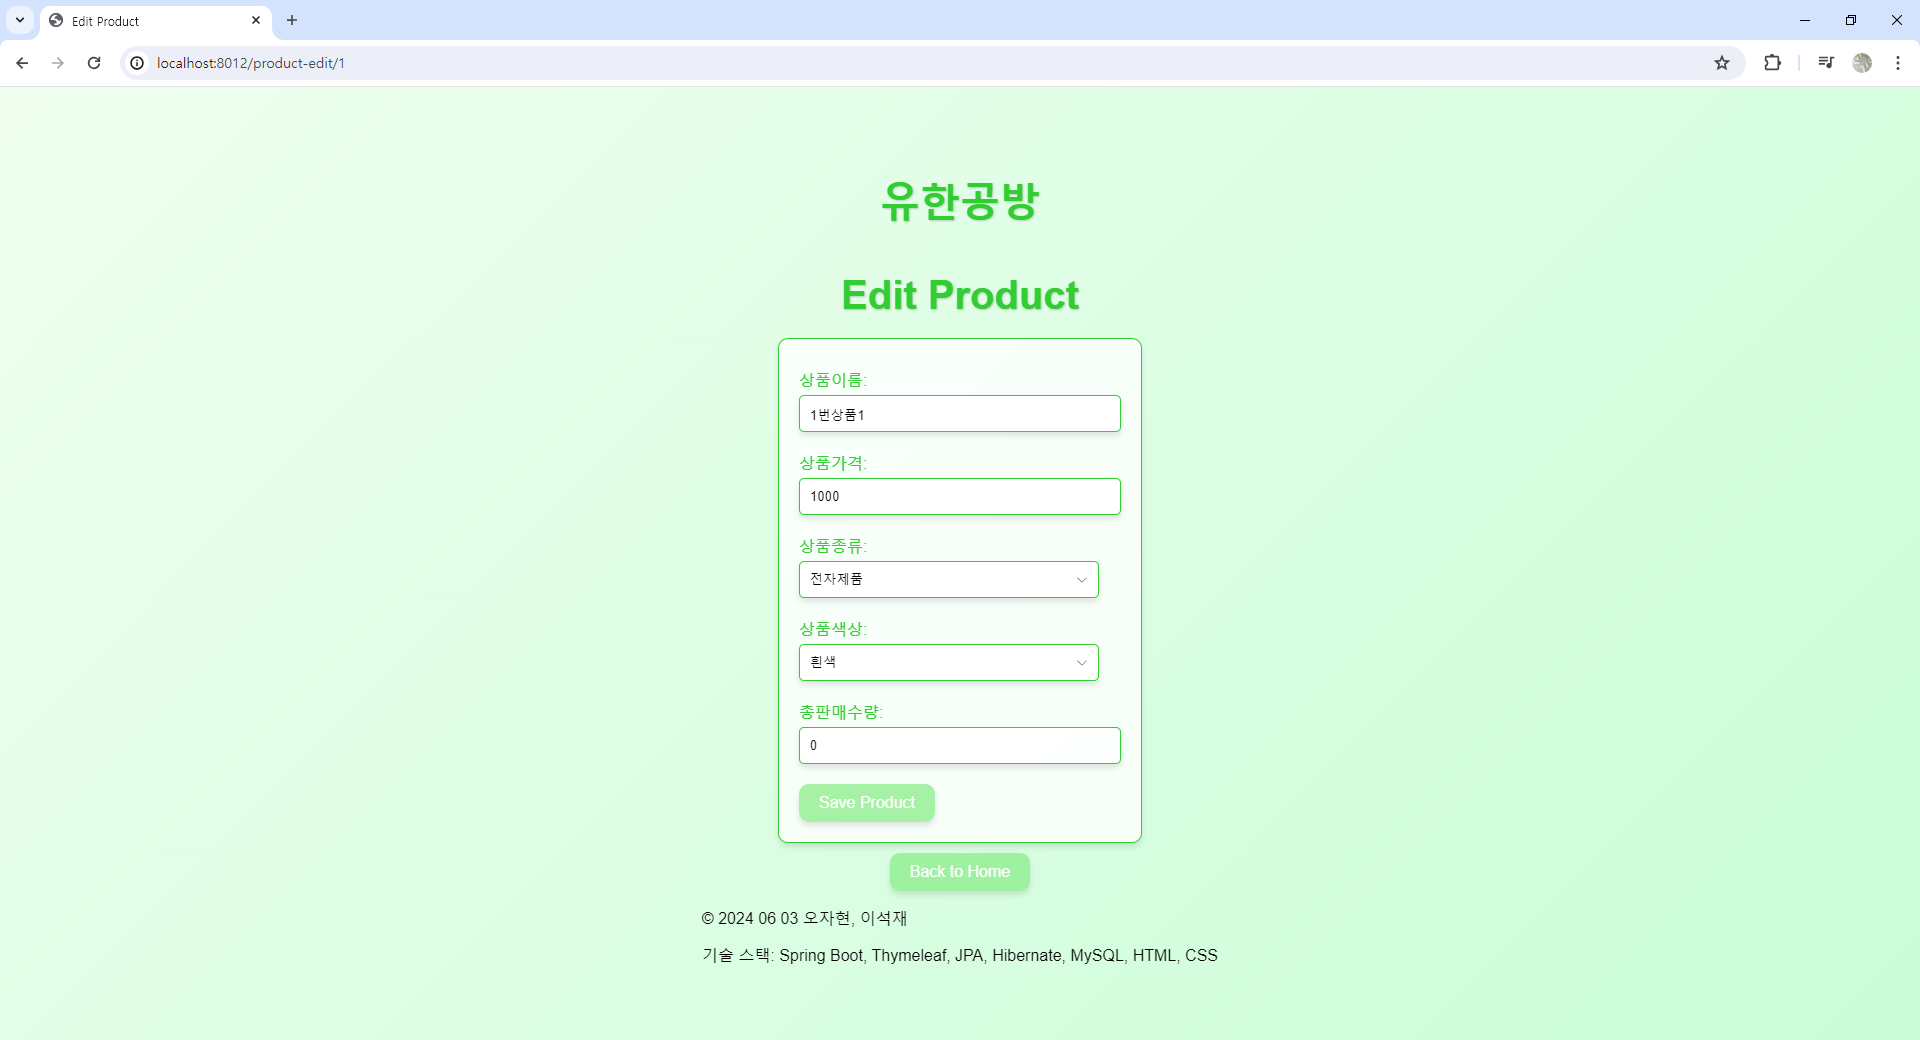
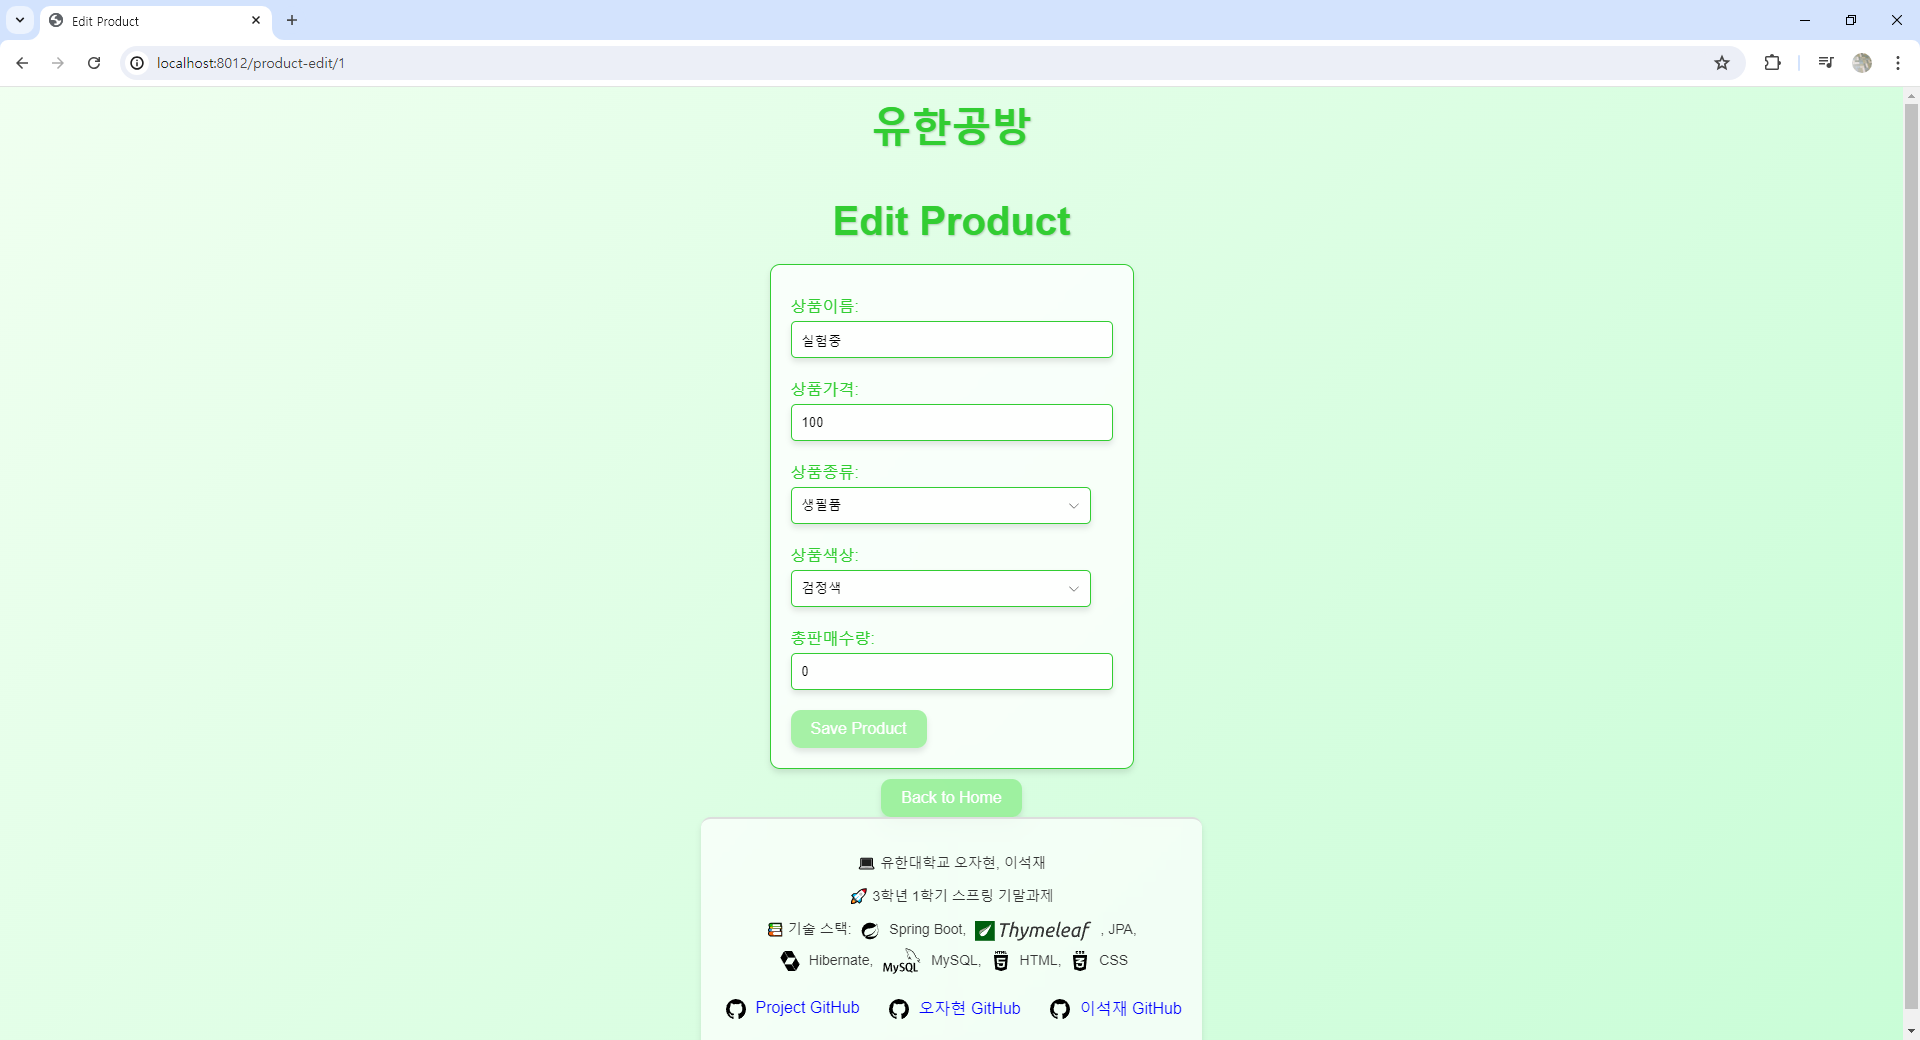
[오자현] 이미지 수정, 풋터 수정

Changed region(s): [[0.3438, 0.0923, 0.625, 1.0], [0.9688, 0.0923, 1.0, 1.0]]

diff --git a/Final_Exam/src/main/resources/templates/footer.html b/Final_Exam/src/main/resources/templates/footer.html
@@ -81,9 +81,9 @@
 				</g>
 			</svg> CSS
 		</p>
-		<br>
 		<p>
-			<a href="https://github.com/ohjaoh/Spring-Practice" target="_blank"style="text-decoration: none; color: blue;">
+			<a href="https://github.com/ohjaoh/Spring-Practice" target="_blank"
+				style="text-decoration: none; color: blue; display: inline-block; margin-right: 20px;">
 				<svg width="20px" height="20px" viewBox="0 0 20 20" version="1.1" xmlns="http://www.w3.org/2000/svg"
 					xmlns:xlink="http://www.w3.org/1999/xlink" style="vertical-align: middle; margin: 0 5px;">
 					<g id="Page-1" stroke="none" stroke-width="1" fill="none" fill-rule="evenodd">
@@ -92,16 +92,15 @@
 								<path
 									d="M94,7399 C99.523,7399 104,7403.59 104,7409.253 C104,7413.782 101.138,7417.624 97.167,7418.981 C96.66,7419.082 96.48,7418.762 96.48,7418.489 C96.48,7418.151 96.492,7417.047 96.492,7415.675 C96.492,7414.719 96.172,7414.095 95.813,7413.777 C98.04,7413.523 100.38,7412.656 100.38,7408.718 C100.38,7407.598 99.992,7406.684 99.35,7405.966 C99.454,7405.707 99.797,7404.664 99.252,7403.252 C99.252,7403.252 98.414,7402.977 96.505,7404.303 C95.706,7404.076 94.85,7403.962 94,7403.958 C93.15,7403.962 92.295,7404.076 91.497,7404.303 C89.586,7402.977 88.746,7403.252 88.746,7403.252 C88.203,7404.664 88.546,7405.707 88.649,7405.966 C88.01,7406.684 87.619,7407.598 87.619,7408.718 C87.619,7412.646 89.954,7413.526 92.175,7413.785 C91.889,7414.041 91.63,7414.493 91.54,7415.156 C90.97,7415.418 89.522,7415.871 88.63,7414.304 C88.63,7414.304 88.101,7413.319 87.097,7413.247 C87.097,7413.247 86.122,7413.234 87.029,7413.87 C87.029,7413.87 87.684,7414.185 88.139,7415.37 C88.139,7415.37 88.726,7417.2 91.508,7416.58 C91.513,7417.437 91.522,7418.245 91.522,7418.489 C91.522,7418.76 91.338,7419.077 90.839,7418.982 C86.865,7417.627 84,7413.783 84,7409.253 C84,7403.59 88.478,7399 94,7399"
 									id="github-[#142]">
-
 								</path>
 							</g>
 						</g>
 					</g>
-				</svg> Project GitHub
+				</svg>
+				Project GitHub
 			</a>
-		</p>
-		<p>
-			<a href="https://github.com/ohjaoh" target="_blank" style="text-decoration: none; color: blue;">
+			<a href="https://github.com/ohjaoh" target="_blank"
+				style="text-decoration: none; color: blue; display: inline-block; margin-right: 20px;">
 				<svg width="20px" height="20px" viewBox="0 0 20 20" version="1.1" xmlns="http://www.w3.org/2000/svg"
 					xmlns:xlink="http://www.w3.org/1999/xlink" style="vertical-align: middle; margin: 0 5px;">
 					<g id="Page-1" stroke="none" stroke-width="1" fill="none" fill-rule="evenodd">
@@ -110,16 +109,15 @@
 								<path
 									d="M94,7399 C99.523,7399 104,7403.59 104,7409.253 C104,7413.782 101.138,7417.624 97.167,7418.981 C96.66,7419.082 96.48,7418.762 96.48,7418.489 C96.48,7418.151 96.492,7417.047 96.492,7415.675 C96.492,7414.719 96.172,7414.095 95.813,7413.777 C98.04,7413.523 100.38,7412.656 100.38,7408.718 C100.38,7407.598 99.992,7406.684 99.35,7405.966 C99.454,7405.707 99.797,7404.664 99.252,7403.252 C99.252,7403.252 98.414,7402.977 96.505,7404.303 C95.706,7404.076 94.85,7403.962 94,7403.958 C93.15,7403.962 92.295,7404.076 91.497,7404.303 C89.586,7402.977 88.746,7403.252 88.746,7403.252 C88.203,7404.664 88.546,7405.707 88.649,7405.966 C88.01,7406.684 87.619,7407.598 87.619,7408.718 C87.619,7412.646 89.954,7413.526 92.175,7413.785 C91.889,7414.041 91.63,7414.493 91.54,7415.156 C90.97,7415.418 89.522,7415.871 88.63,7414.304 C88.63,7414.304 88.101,7413.319 87.097,7413.247 C87.097,7413.247 86.122,7413.234 87.029,7413.87 C87.029,7413.87 87.684,7414.185 88.139,7415.37 C88.139,7415.37 88.726,7417.2 91.508,7416.58 C91.513,7417.437 91.522,7418.245 91.522,7418.489 C91.522,7418.76 91.338,7419.077 90.839,7418.982 C86.865,7417.627 84,7413.783 84,7409.253 C84,7403.59 88.478,7399 94,7399"
 									id="github-[#142]">
-
 								</path>
 							</g>
 						</g>
 					</g>
-				</svg> 오자현 GitHub
+				</svg>
+				오자현 GitHub
 			</a>
-		</p>
-				<p>
-			<a href="https://github.com/SeokjaeL" target="_blank" style="text-decoration: none; color: blue;">
+			<a href="https://github.com/SeokjaeL" target="_blank"
+				style="text-decoration: none; color: blue; display: inline-block;">
 				<svg width="20px" height="20px" viewBox="0 0 20 20" version="1.1" xmlns="http://www.w3.org/2000/svg"
 					xmlns:xlink="http://www.w3.org/1999/xlink" style="vertical-align: middle; margin: 0 5px;">
 					<g id="Page-1" stroke="none" stroke-width="1" fill="none" fill-rule="evenodd">
@@ -128,14 +126,15 @@
 								<path
 									d="M94,7399 C99.523,7399 104,7403.59 104,7409.253 C104,7413.782 101.138,7417.624 97.167,7418.981 C96.66,7419.082 96.48,7418.762 96.48,7418.489 C96.48,7418.151 96.492,7417.047 96.492,7415.675 C96.492,7414.719 96.172,7414.095 95.813,7413.777 C98.04,7413.523 100.38,7412.656 100.38,7408.718 C100.38,7407.598 99.992,7406.684 99.35,7405.966 C99.454,7405.707 99.797,7404.664 99.252,7403.252 C99.252,7403.252 98.414,7402.977 96.505,7404.303 C95.706,7404.076 94.85,7403.962 94,7403.958 C93.15,7403.962 92.295,7404.076 91.497,7404.303 C89.586,7402.977 88.746,7403.252 88.746,7403.252 C88.203,7404.664 88.546,7405.707 88.649,7405.966 C88.01,7406.684 87.619,7407.598 87.619,7408.718 C87.619,7412.646 89.954,7413.526 92.175,7413.785 C91.889,7414.041 91.63,7414.493 91.54,7415.156 C90.97,7415.418 89.522,7415.871 88.63,7414.304 C88.63,7414.304 88.101,7413.319 87.097,7413.247 C87.097,7413.247 86.122,7413.234 87.029,7413.87 C87.029,7413.87 87.684,7414.185 88.139,7415.37 C88.139,7415.37 88.726,7417.2 91.508,7416.58 C91.513,7417.437 91.522,7418.245 91.522,7418.489 C91.522,7418.76 91.338,7419.077 90.839,7418.982 C86.865,7417.627 84,7413.783 84,7409.253 C84,7403.59 88.478,7399 94,7399"
 									id="github-[#142]">
-
 								</path>
 							</g>
 						</g>
 					</g>
-				</svg> 이석재 GitHub
+				</svg>
+				이석재 GitHub
 			</a>
 		</p>
+
 	</footer>
 </body>
 

diff --git a/Final_Exam/src/main/resources/templates/index.html b/Final_Exam/src/main/resources/templates/index.html
@@ -76,7 +76,6 @@
 <body>
 	<th:block th:replace="header :: header"></th:block>
 	<h1>장인공방에 오신것을 환영합니다.</h1>
-	<p>석재 밑에 세션으로 로그인해야 볼 수 있게 해둔 관리부분들을 관리자가 로그인 했을 때 가능하게 하면 될듯</p>
 	<th:block th:if="${session.admin != null}">
 
 		<a href="/product-list" class="button">상품관리</a>
